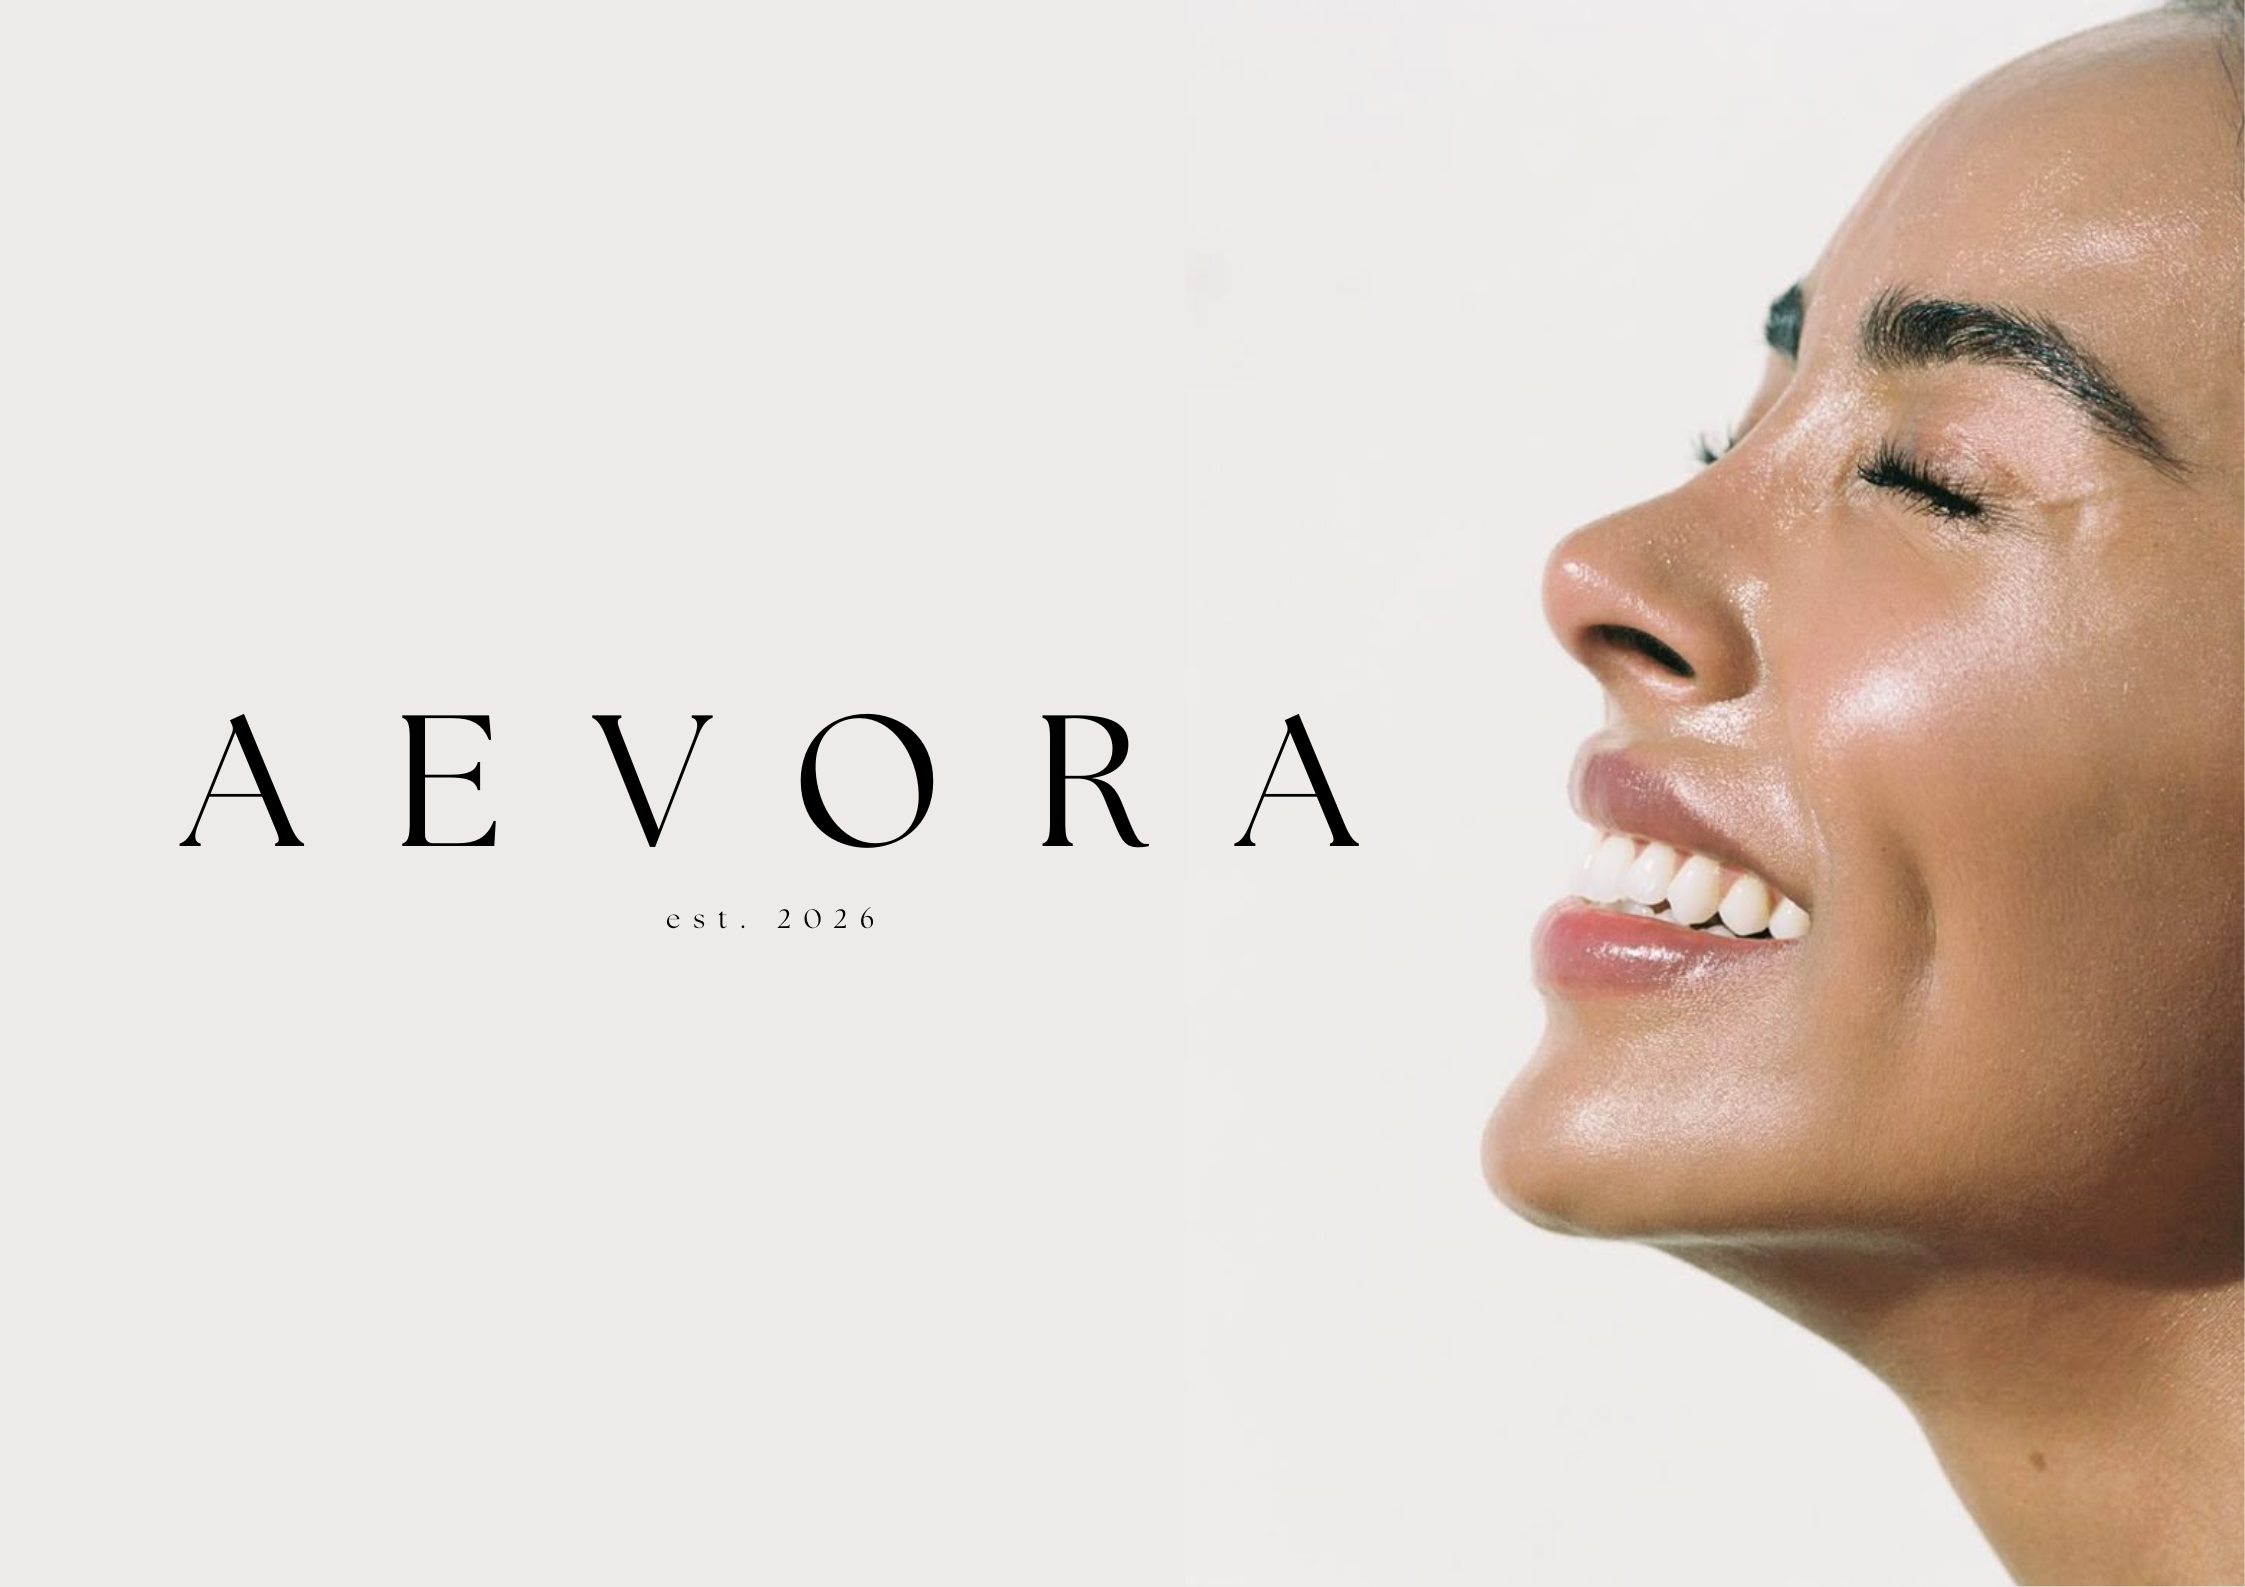
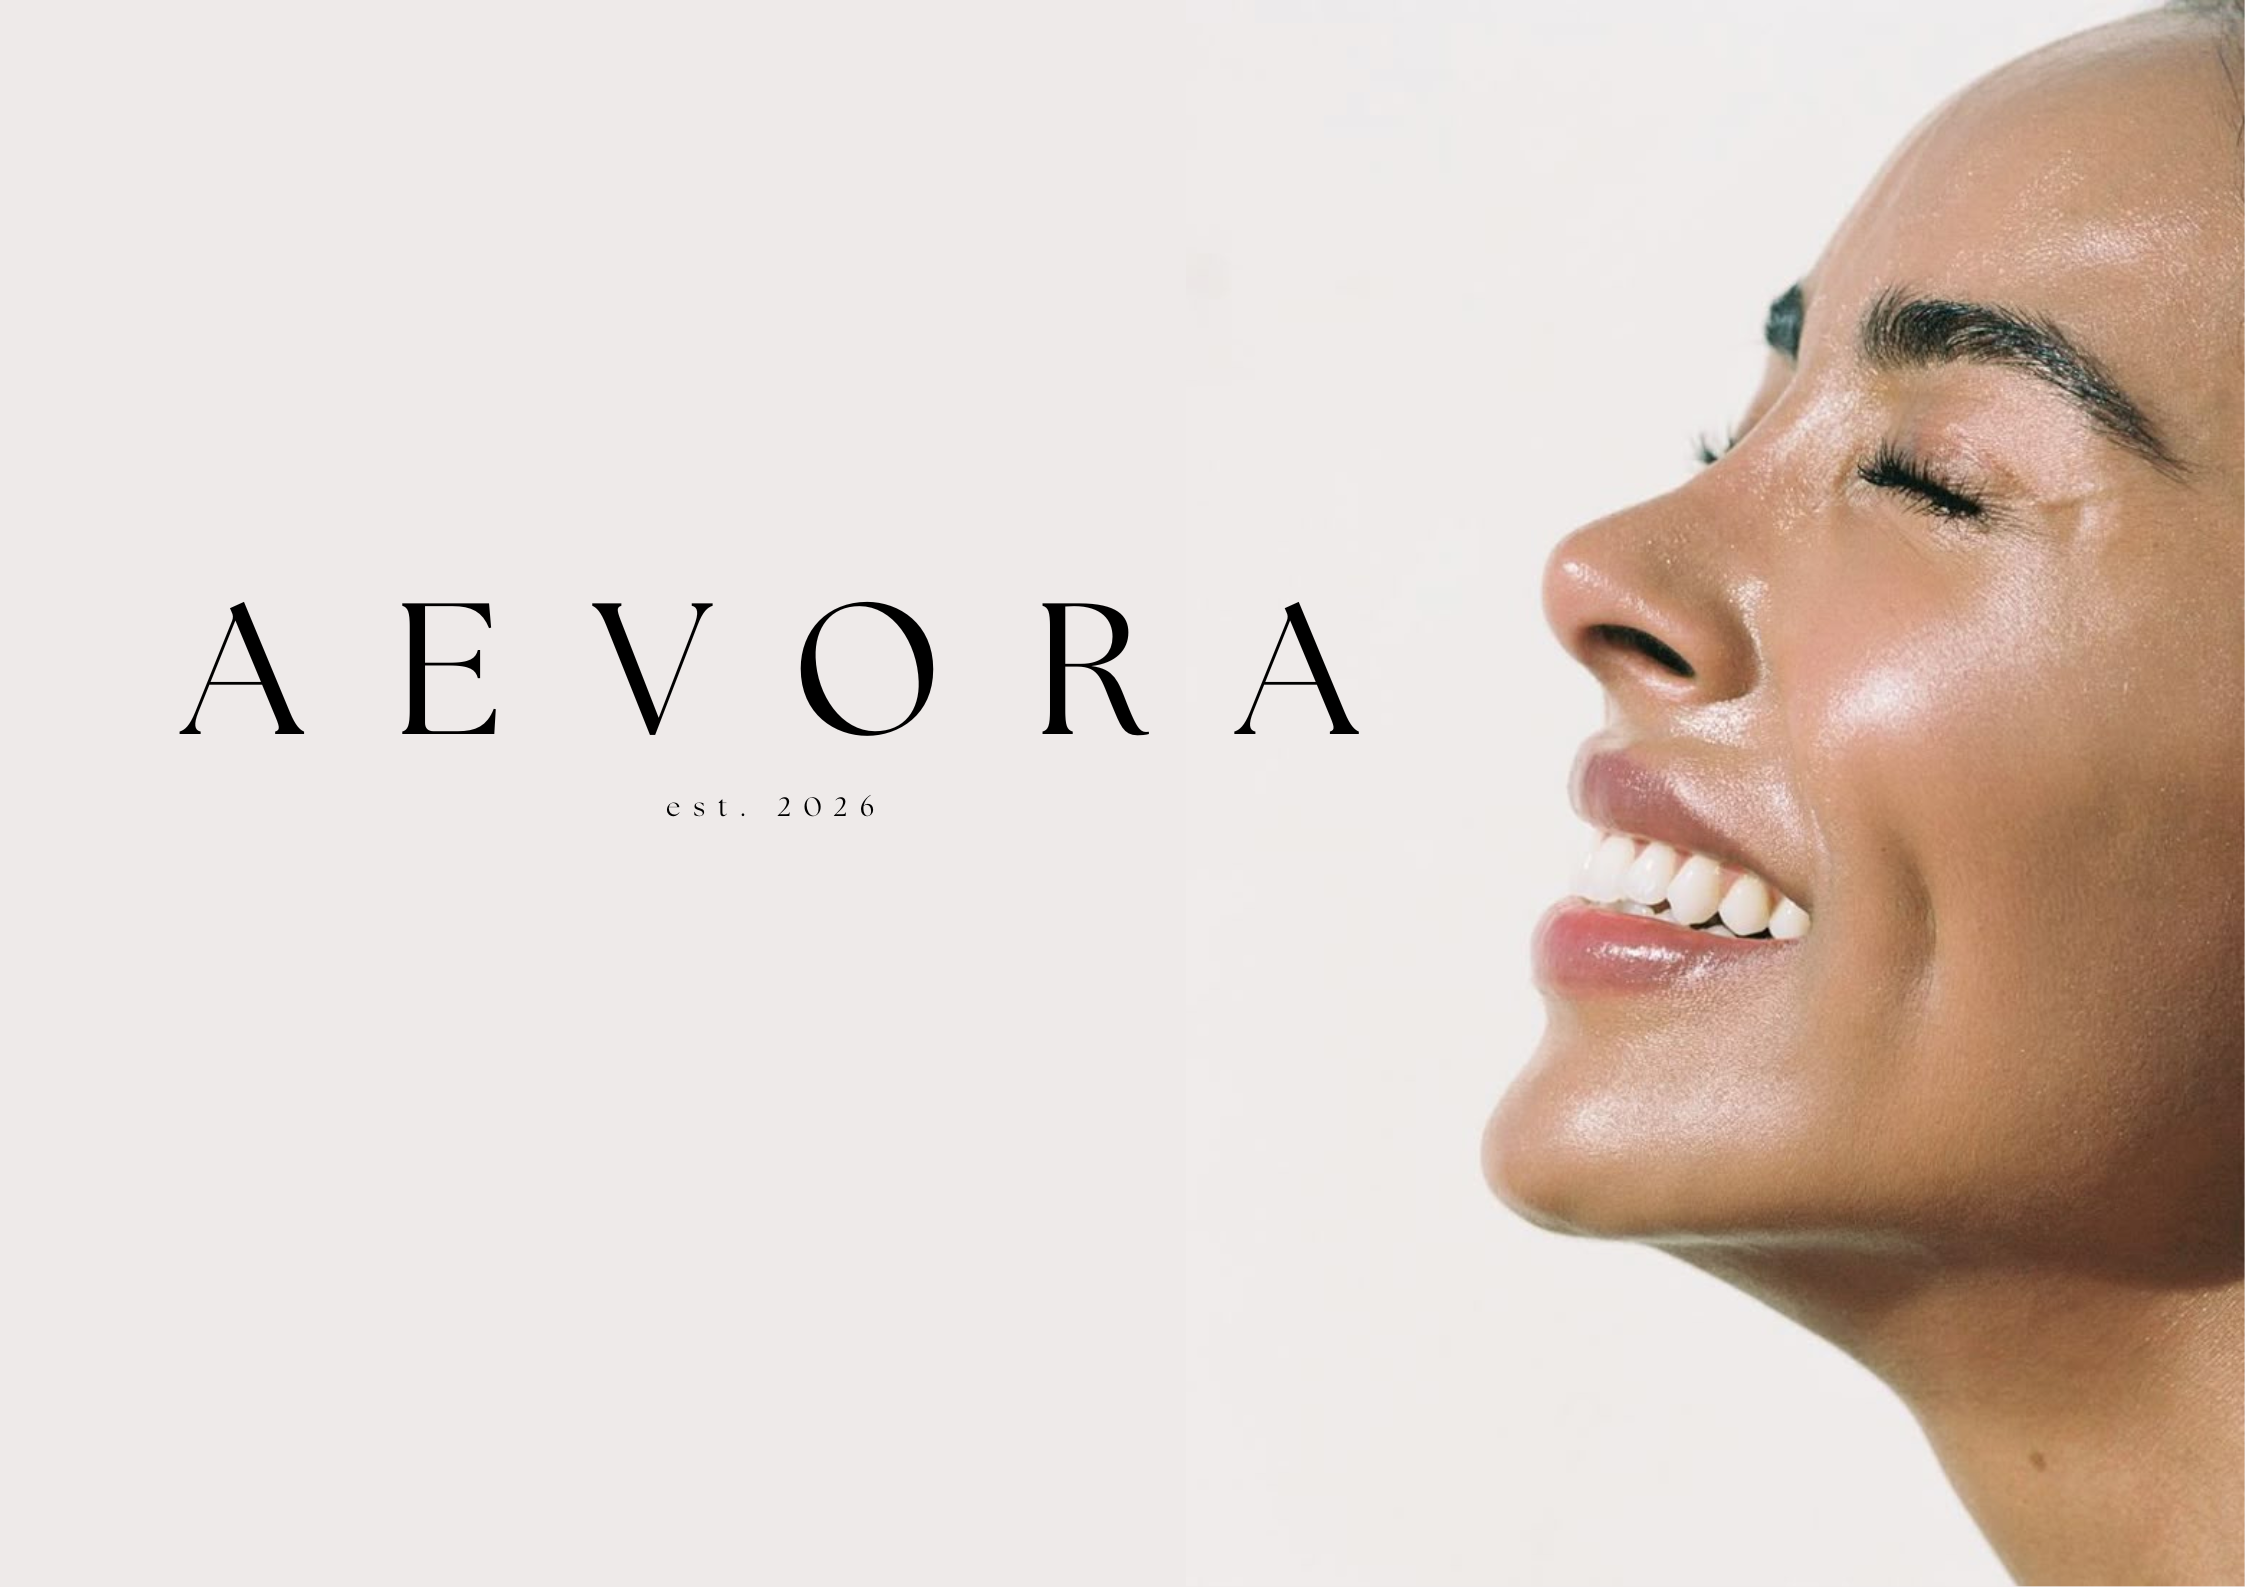
Changed the review design. Changed font family on nav. Added product page.

diff --git a/css/main.css b/css/main.css
@@ -42,22 +42,26 @@ nav {
 li {
    list-style: none; 
    padding: 1vw;
-   
    border: 2px solid rgb(255, 255, 255);
    border-radius: 0.5vw;
    background-color: rgb(251, 222, 240); 
 }
 
+/* Font-family from Google Fonts */
 a {
     text-decoration: none;
-    font-family:'Times New Roman', Times, serif
+    font-family: "Libre Caslon Display", serif;
+    font-weight: 400;
+    font-style: normal;
+    letter-spacing: 1px;
+    -webkit-font-smoothing: antialiased;
 }
 
 /* Help from Google Gemini */
 a, a:visited {
     color: black;
 }
-
+/* MDN page */
 a:hover {
     color: rgb(210, 37, 181);
 }
@@ -78,7 +82,7 @@ a:hover {
     width: 100vw;
     height: 400px;
     object-fit: cover;
-    object-position: center;
+    object-position: center 40%;
     display: block;
 }
 
@@ -86,7 +90,7 @@ a:hover {
 .launch-title {
     text-align: center;
     color: rgb(94, 57, 39);
-    /* How to do shadow on text from mdn page */
+    /* How to do shadow on text from MDN page */
     text-shadow: 1px 1px 2px rgb(74, 56, 41);
     font-family: "Libre Caslon Display", serif;
     font-weight: 400;
@@ -120,7 +124,7 @@ a:hover {
 
 .reviews {
     padding: 60px 20px;
-    background-color: rgb(255, 251, 226);
+    background-color: #EEEAE9;
 }
 
 .reviews-title {
@@ -142,8 +146,8 @@ a:hover {
 }
 
 .review-card {
-    background-color: rgb(252, 235, 252);
-    border: 2px solid #eabfeb;
+    background-color: rgb(248, 232, 167);
+    border: 2px solid #c9ae75;
     border-radius: 20px;
     padding: 3opx;
     text-align: center;
@@ -154,7 +158,7 @@ a:hover {
 }
 
 .stars {
-    color: #eda8ec;
+    color: #ed85d8;
     font-size: 1.2rem;
     margin-top: 30px;
 }
@@ -297,6 +301,98 @@ footer {
 .add-btn:hover {
     background-color: rgb(210, 37, 181);
     color: white;
+}
+
+/* CSS FOR PRODUCT PAGE */
+.product-page-layout {
+    display: grid;
+    grid-template-columns: 80px 1fr 1fr;
+    gap: 40px;
+    max-width: 1200px;
+    margin: 60px;
+    padding: 0 20px;
+}
+
+.breadcrumb {
+    display: table !important;
+    width: auto !important;
+}
+
+.breadcrumb a, .breadcrumb span {
+    display: inline;
+    margin: 0;
+    padding: 0;
+    text-decoration: none;
+}
+
+.breadcrumb-link:hover {
+    color: #d225b5;
+}
+
+.product-thumbnails {
+    display: flex;
+    flex-direction: column;
+    gap: 15px;
+}
+
+.product-thumbnails img {
+    width: 100%; 
+    cursor: pointer;
+    border-radius: 4px;
+}
+
+.product-main-image img {
+    width: 100%;
+    max-width: 450px;
+    height: auto;
+}
+
+.product-details {
+    display: flex;
+    flex-direction: column;
+    gap: 15px; 
+    text-align: left;
+}
+
+.product-title {
+    font-family: "Libre Caslon Display", serif;
+    font-weight: 400;
+    font-style: normal;
+    letter-spacing: 1px;
+    -webkit-font-smoothing: antialiased;
+    font-size: 2.5rem;
+    margin: 0;
+}
+
+.product-price-large {
+    font-size: 1.8rem;
+    margin: 10px 0;
+}
+
+.add-to-cart-btn {
+    background-color: #f9d2d8;
+    border: none;
+    padding: 15px 30px;
+    font-family: "Libre Caslon Display", serif;
+    font-weight: bold;
+    font-style: normal;
+    letter-spacing: 2px;
+    -webkit-font-smoothing: antialiased;
+    text-transform: uppercase;
+    cursor: pointer;
+    transition: 0.3s;
+}
+
+.add-to-cart-btn:hover {
+    background-color: #d225b5;
+    color: white;
+}
+
+@media (max-width: 768px) {
+    .product-detail-container {
+        grid-template-columns: 1fr;
+        gap: 20;
+    }
 }
 
 /* CSS FOR SHOPPING CART PAGE */

diff --git a/product.html b/product.html
@@ -24,10 +24,43 @@
     </nav>
 </header>
 
+<main class="product-page-layout"> 
+    <div class="product-thumbnails">
+        <img src="images/serumbottle.png" alt="serumbottle">
+        <img src="images/serumimages.png" alt="serumimages">
+    </div>
 
+    <div class="product-main-image">
+        <img src="images/serummockup.png" alt="AEVORA Serum">
+    </div>
 
+    <div class="product-details">
+        <nav class="breadcrumb"> 
+            <a href="products.html" class="breadcrumb-link"> Products </a> / Serum
+        </nav>
+    
 
+        <h1 class="product-title"> Serum </h1>
+        <div class="product-stars"> ★ ★ ★ ★ ★ </div>
 
+        <p class="product-desc"> A lightweight, fast obsorbing serum designed to give your skin a natural radiance. Infused with organic ingredients, it deeply nourishes while leaving a silky finish. </p>
+        <p class="product-size"> 30 ml </p>
+        <p class="product-price-large"> 249 SEK </p>
+
+        <button class="add-to-cart-btn"> ADD TO CART </button>
+
+        <div class="product-meta">
+        <details>
+            <summary> How to use </summary>
+            <p> Apply 2-3 drops to clean, damp skin morning and night. </p>
+        </details>
+        <details>
+            <summary> Full ingredients </summary>
+            <p> Aqua, "1, 2-Hexanediol", Propanediol, Glycerin, Ascorbyl Glucoside, PEG-40 Hydrogenated Castor Oil, Hydrolyzed Hyaluronic Acid, Papain, Acacia Senegal Gum, Xanthan Gum, Carbomer, Algin, Tetrasodium Glutamate Diacetate, Citric Acid, Sodium Citrate, Sodium Hydroxide, Caprylyl Glycol, Ethylhexylglycerin, N-Hydroxysuccinimide, Phenoxyethanol, Potassium Sorbate </p>
+        </details>
+    </div>
+</div>
+</main>
 
 <footer>
     <p>&copy; 2026 AEVORA</p>

diff --git a/products.html b/products.html
@@ -30,10 +30,12 @@
     <div class="product-grid">
 
         <article class="product-card">
+            <a href="product.html">
             <img src="images/serumbottle.png" alt="Serum">
             <h3> Serum </h3>
             <p class="price"> 249 SEK </p>
             <button class="add-btn"> Add to Cart </button>
+            </a>
         </article>
 
         <article class="product-card">